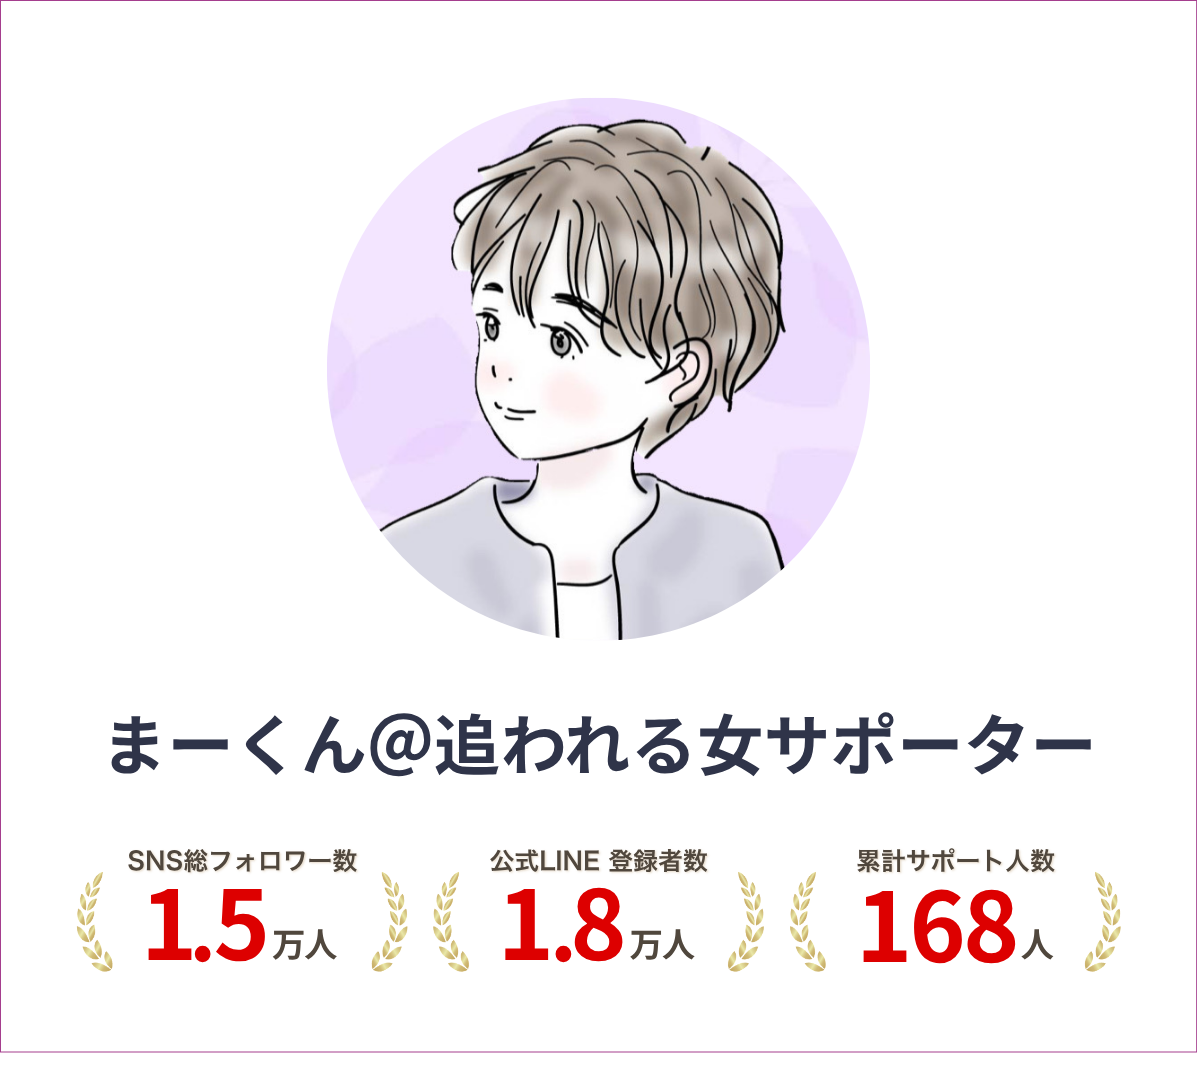
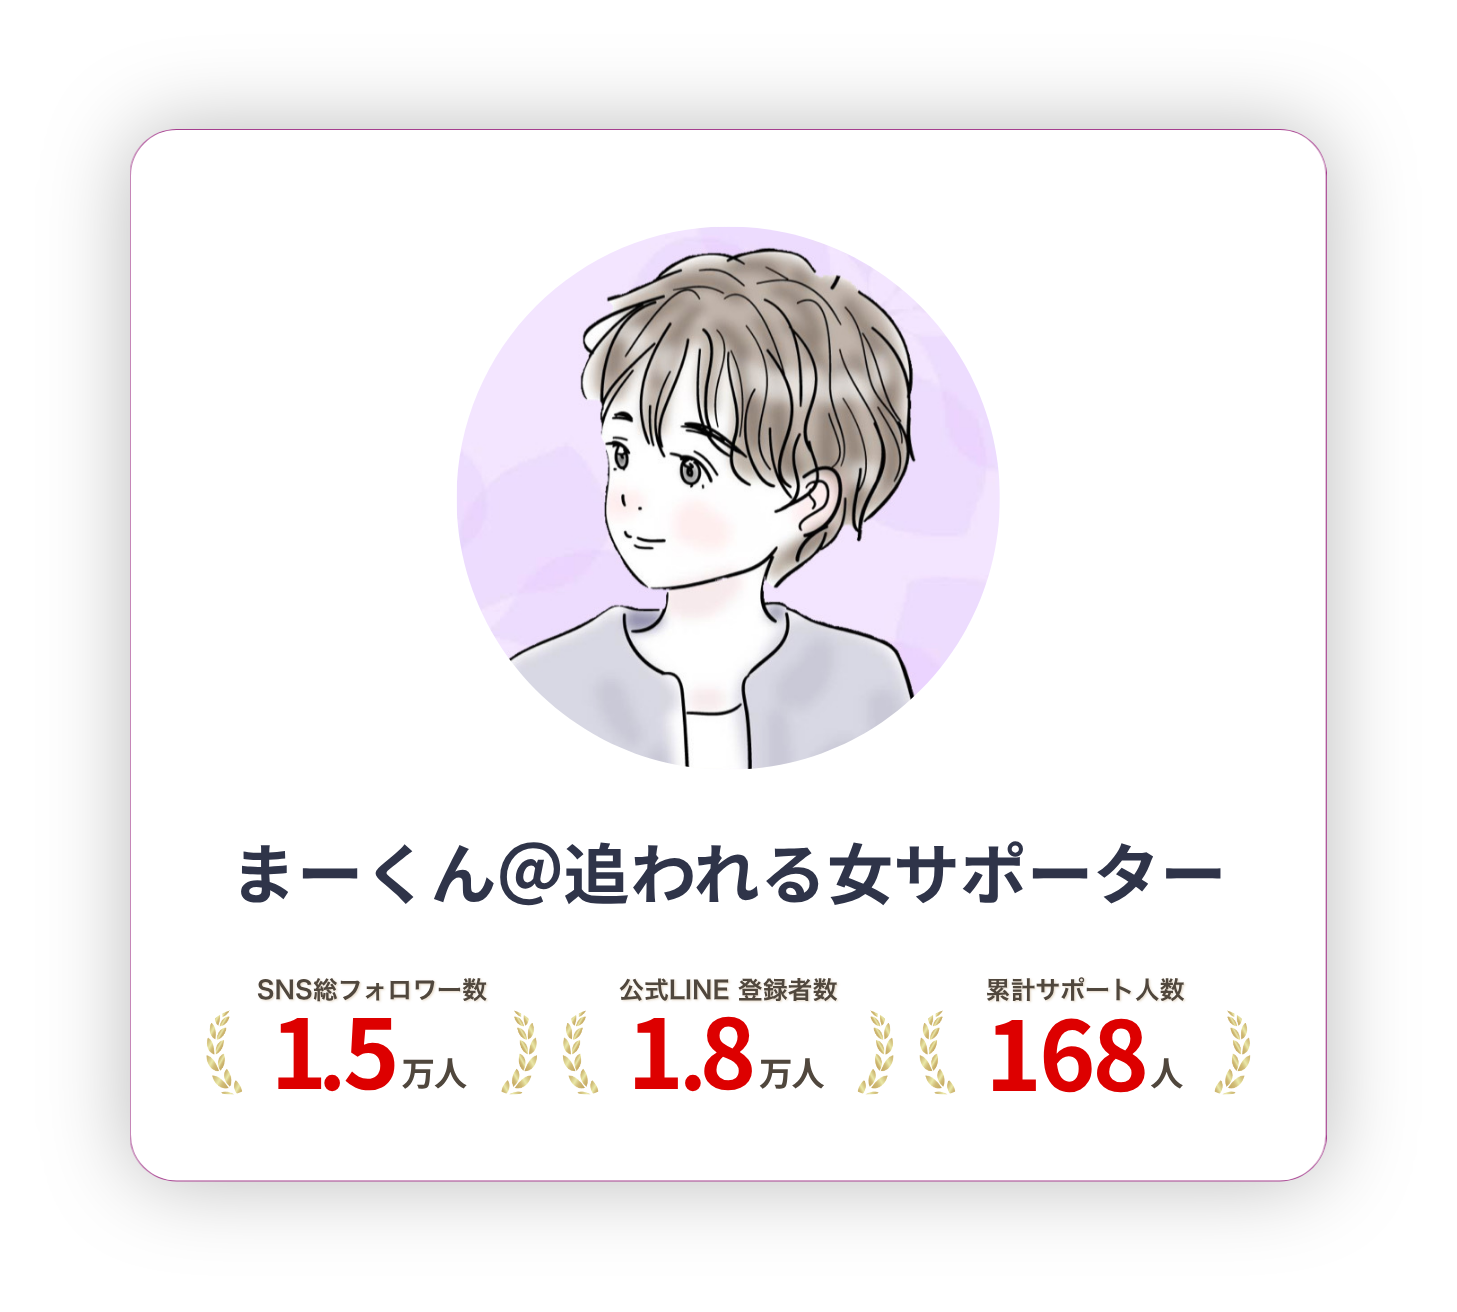
ストーリー部分の作成

diff --git a/html/index.html b/html/index.html
@@ -115,36 +115,30 @@
 	          <p>ここまで読んでくれた<br><strong>あなたには、特別に！！</strong></p>
 	        </div>
 
-	        <div class="lp-offer-box" role="group" aria-labelledby="offer-title">
-	          <p class="lp-offer-label">100名以上の女性が実践した</p>
-	          <h2 id="offer-title" class="lp-offer-title">追われる方法をまとめた<br>【追われる指南書】</h2>
-	          <p class="lp-offer-subtitle">を期間限定でお渡しします！</p>
-	        </div>
-
-		        <div class="lp-book-area" aria-label="追われる指南書イメージ">
-		          <img class="lp-book-image" src="../image/追われる恋愛指南書.png" alt="追われる恋愛指南書">
-		        </div>
-
-		        <div class="lp-cta">
-		          <a class="lp-cta-btn lp-cta-btn--image" href="https://line.me/R/ti/p/@maakun_love" data-track="gift_line" aria-label="無料で追われる指南書を受け取る">
-		            <img class="lp-cta-btn-image" src="../image/追加ボタン.png" alt="追加ボタン">
-		          </a>
-		          <p class="lp-cta-note">※料金は一切かかりません。<br>※公式LINEでのお渡しなので住所等の個人情報も一切不要です。</p>
-		        </div>
+		        <img class="lp-offer-image" src="../image/LP_無料Pオファー.png" alt="100名以上の女性が実践した追われる方法をまとめた追われる指南書を期間限定でお渡しします">
 	      </div>
-	    </section>
+		</section>
+
+		<section class="section lp-final-offer" aria-label="追われる指南書の受け取り">
+        <div class="section-inner lp-narrow">
+          <img class="lp-book-image" src="../image/追われる恋愛指南書.png" alt="好きな彼から追われる恋愛指南書">
+          <div class="lp-cta">
+            <a class="lp-cta-btn lp-cta-btn--image" href="https://line.me/R/ti/p/@maakun_love" data-track="bottom_line" aria-label="追われる指南書を受け取る">
+              <img class="lp-cta-btn-image" src="../image/追加ボタン.png" alt="追われる指南書を受け取る">
+            </a>
+            <p class="lp-cta-note">※料金は一切かかりません。<br>※公式LINEでのお渡しなので住所等の個人情報も一切不要です。</p>
+          </div>
+          <div class="lp-qr-area" aria-labelledby="first-qr-title">
+            <h2 id="first-qr-title" class="lp-small-title">ボタンからできなかった方は<br>QRコードからお願いします</h2>
+            <img class="lp-qr-image" src="../image/LP 友達追加QR.png" alt="友達追加用QRコード">
+          </div>
+          <p class="lp-cta-note">※プライバシー保護のため、仮名およびイメージ写真を使用しています。</p>
+     	</div>
+    	</section>
 
 		<section class="section lp-steps-image" aria-label="受け取り手順">
 		        <img class="lp-steps-image-img" src="../image/受け取り手順.png" alt="受け取り手順">
 		</section>
-
-	    <section class="section lp-qr" aria-labelledby="qr-title">
-	      <div class="section-inner lp-narrow">
-	        <h2 id="qr-title" class="lp-small-title">ボタンからできなかった方へ</h2>
-	        <p class="lp-lead">QRコードからも追加できます。</p>
-	        <div class="lp-qr-box" aria-label="QRコード（画像差し替え）">QRコード画像を差し替えてください</div>
-	      </div>
-	    </section>
 
 	    <section class="section lp-faq" id="faq" aria-labelledby="faq-title">
 	      <div class="section-inner lp-narrow">
@@ -170,26 +164,7 @@
     <div class="story-lp-sections">
       <section class="section lp-profile" aria-label="プロフィール">
         <div class="section-inner lp-narrow">
-          <div class="lp-profile-card">
-            <div class="lp-profile-avatar" aria-hidden="true">
-              <img class="lp-profile-avatar-image" src="../image/LP_まーくんプロフ.png" alt="まーくんのプロフィール画像">
-            </div>
-            <p class="lp-profile-name">まーくん@追われる女サポーター</p>
-            <div class="lp-stats" aria-label="実績">
-              <div class="lp-stat">
-                <span class="lp-stat-label">SNS総フォロワー数</span>
-                <span class="lp-stat-value">1.5<span class="lp-stat-unit">万人</span></span>
-              </div>
-              <div class="lp-stat">
-                <span class="lp-stat-label">公式LINE 登録者数</span>
-                <span class="lp-stat-value">1.8<span class="lp-stat-unit">万人</span></span>
-              </div>
-              <div class="lp-stat">
-                <span class="lp-stat-label">累計サポート人数</span>
-                <span class="lp-stat-value">168<span class="lp-stat-unit">人</span></span>
-              </div>
-            </div>
-          </div>
+          <img class="lp-profile-image" src="../image/LP_まーくんプロフ.png" alt="まーくんのプロフィール">
       
           <div class="lp-achievement-copy" aria-label="実績コピー">
             <p>僕と一緒に</p>

diff --git a/css/style.css b/css/style.css
@@ -578,11 +578,13 @@ h3 {
 
 .lp-offer {
   background: #fff8fc;
+  padding-bottom: 0;
 }
 
 .lp-special-heading {
   text-align: center;
   margin-bottom: 18px;
+  font-size: clamp(1.8rem, 3.6vw, 2rem);
 }
 
 .lp-special-heading p {
@@ -614,6 +616,13 @@ h3 {
 .lp-offer-subtitle {
   margin-top: 10px;
   font-weight: 900;
+}
+
+.lp-offer-image {
+  display: block;
+  width: min(520px, 100%);
+  height: auto;
+  margin: 0 auto;
 }
 
 .lp-book-area {
@@ -751,6 +760,49 @@ h3 {
   font-size: 0.9rem;
   color: rgba(37, 36, 39, 0.72);
   text-align: left;
+}
+
+.lp-final-offer {
+  padding: 48px 0 70px;
+  background: #fff7fc;
+  text-align: center;
+}
+
+.lp-offer + .lp-final-offer {
+  padding-top: 0;
+}
+
+.lp-final-offer .lp-book-image {
+  width: min(170px, 50%);
+  height: auto;
+  margin: 0 auto;
+  display: block;
+}
+
+.lp-final-offer .lp-cta {
+  margin-top: 24px;
+}
+
+.lp-final-offer .lp-qr-area {
+  margin-top: 52px;
+  text-align: center;
+}
+
+.lp-final-offer .lp-small-title {
+  margin: 0 0 26px;
+  color: #2c3042;
+  font-size: 20px;
+  font-weight: 800;
+  line-height: 1.6;
+  letter-spacing: 0.04em;
+}
+
+.lp-final-offer .lp-qr-image {
+  display: block;
+  width: 180px;
+  height: 180px;
+  margin: 0 auto;
+  object-fit: contain;
 }
 
 .lp-divider-title {

diff --git a/story-lp-sections.css b/story-lp-sections.css
@@ -94,14 +94,21 @@
 }
 
 .story-lp-sections .lp-profile-card {
-    background: #fff;
+  background: #fff;
   border: 1px solid var(--lp-border);
   padding: 36px 22px 30px;
   text-align: center;
 }
 
+.story-lp-sections .lp-profile-image {
+  display: block;
+  width: min(560px, 100%);
+  height: auto;
+  margin: 0 auto;
+}
+
 .story-lp-sections .lp-profile-avatar {
-    width: 180px;
+  width: 180px;
   height: 180px;
   margin: 0 auto 22px;
   border-radius: 50%;
@@ -209,7 +216,7 @@
 }
 
 .story-lp-sections .lp-case-profile-image {
-    width: min(300px, 78%);
+    width: min(200px, 58%);
   height: auto;
   border-radius: 50%;
   display: block;
@@ -283,14 +290,14 @@
 }
 
 .story-lp-sections .lp-final-offer .lp-book-image {
-    width: min(340px, 82%);
+  width: min(170px, 50%);
   height: auto;
-  margin: 0 auto 36px;
+  margin: 0 auto;
   display: block;
 }
 
 .story-lp-sections .lp-final-offer .lp-cta {
-    margin-top: 0;
+  margin-top: 24px;
 }
 
 .story-lp-sections .lp-cta {
@@ -308,7 +315,7 @@
 }
 
 .story-lp-sections .lp-cta-btn-image {
-    width: min(520px, 100%);
+  width: min(380px, 100%);
   height: auto;
   display: block;
   margin: 0 auto;
